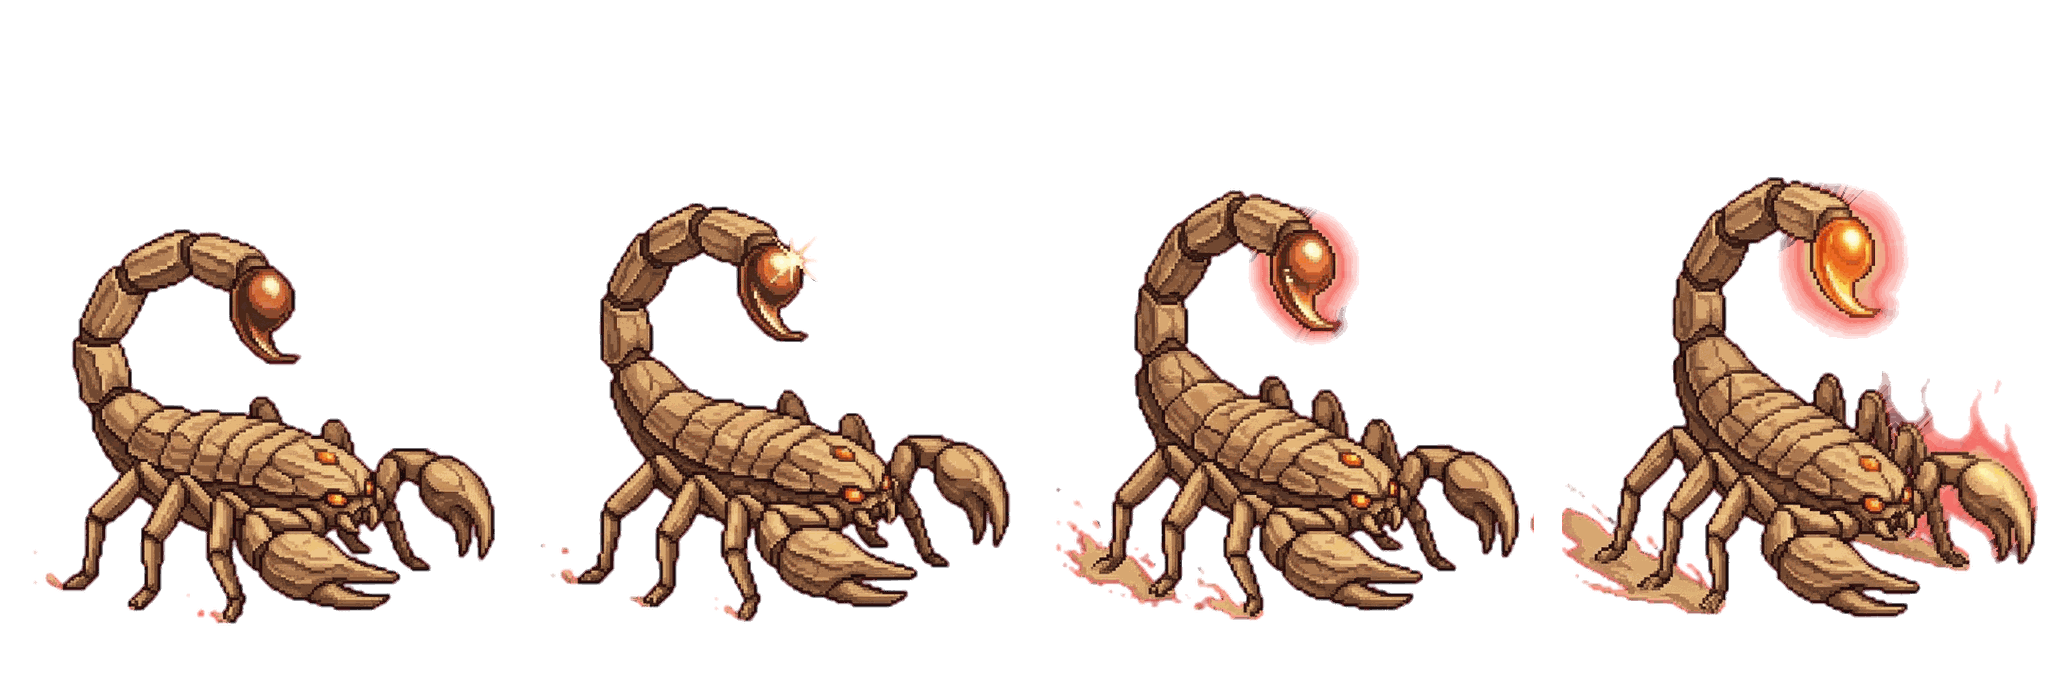
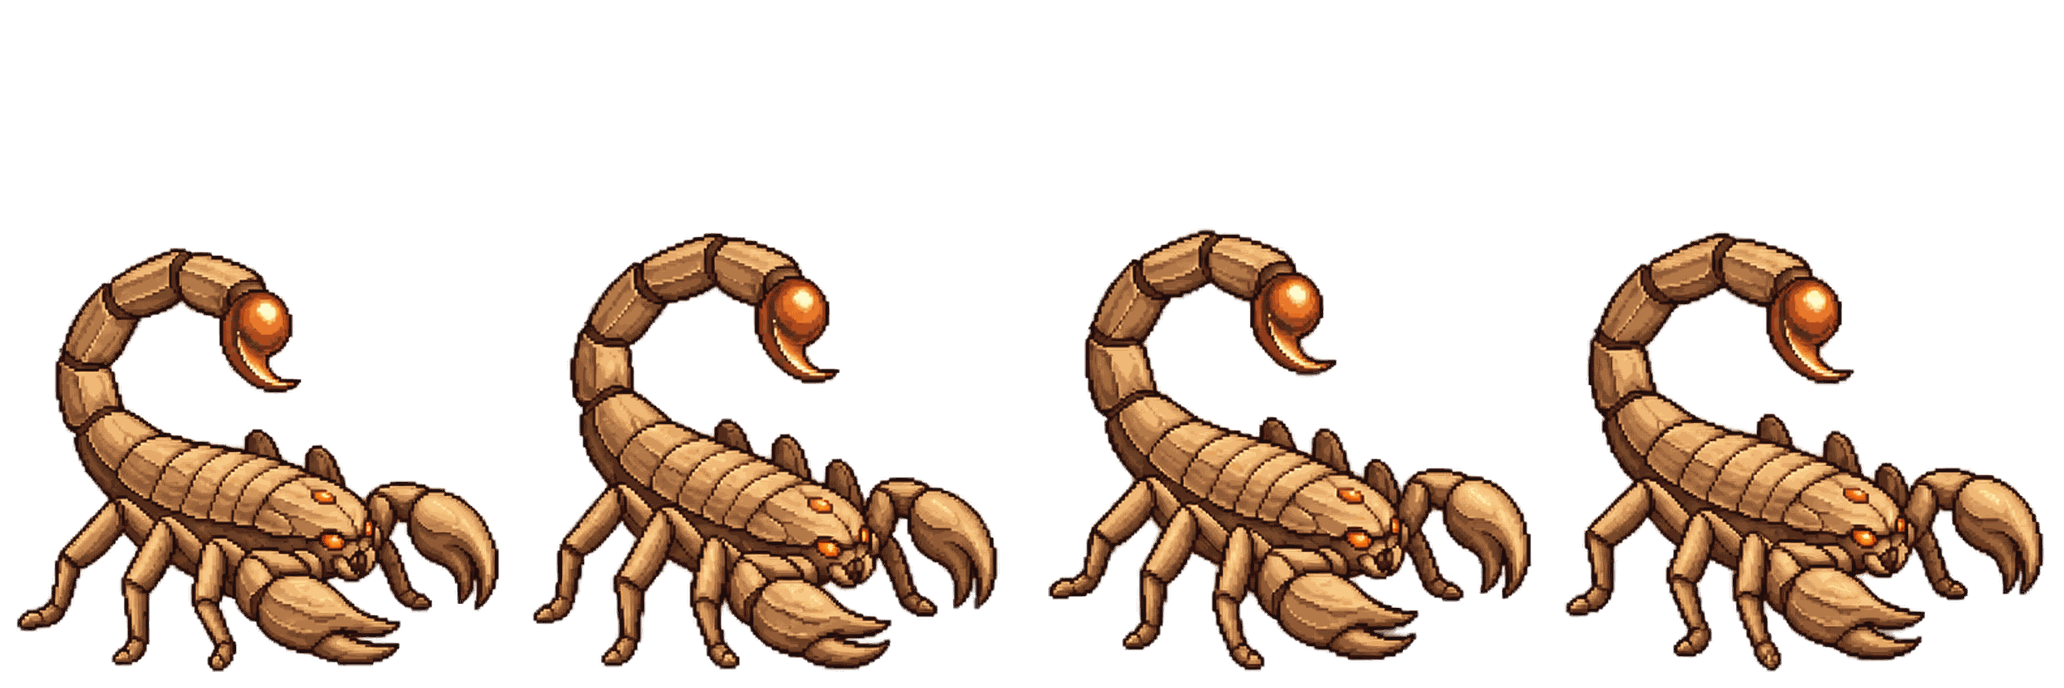
Round 271: the Dune Scorpion scuttles (#51)
Claude-Session: https://claude.ai/code/session_01XB2RMCaJ1aVVtBjSNk3FhS

diff --git a/assets/elaris-wildlife.js b/assets/elaris-wildlife.js
@@ -6,7 +6,7 @@ const ELARIS_WILDLIFE={
  // own sheets (see ELARIS-ART.md).
  cinderFox:{name:'Solar Scarab',icon:'☼',hp:38,attack:7,element:'fire',sheet:'solar-scarab',cycle:'.8s'}, // Round 269: the owner's eight-frame walk (four frames used)
  drownedHeron:{name:'Mirage Ibis',icon:'≈',hp:55,attack:9,element:'water',sheet:'mirage-ibis',cycle:'.8s'}, // Round 270: the owner's eight-frame walk (four frames used)
- blightAntler:{name:'Dune Scorpion',icon:'◆',hp:44,attack:8,element:'earth',sheet:'dune-scorpion',cycle:'1.2s'},
+ blightAntler:{name:'Dune Scorpion',icon:'◆',hp:44,attack:8,element:'earth',sheet:'dune-scorpion',cycle:'.8s'}, // Round 271: the owner's eight-frame walk (four frames used)
  stormMoth:{name:'Dust Devil',icon:'≋',hp:52,attack:9,element:'air',sheet:'dust-devil',cycle:'.7s'},
  // Round 22 mini-bosses (own sheets since Round 195).
  tidewardenElaris:{name:'The Cistern Warden',icon:'≈',hp:70,attack:11,armor:3,element:'water',sheet:'cistern-warden',cycle:'1.4s',boss:true,miniBoss:true},
@@ -42,7 +42,7 @@ const cityMonsterArt=monsterArt;
 // Round 196: a sheet name with a folder ('sky/zenith-roc') is read from assets/monsters/<folder>/;
 // big:true draws it in the larger boss box.
 // Round 200: bump SPRITE_VERSION when sheets are re-cut, so browsers fetch the new images.
-const SPRITE_VERSION='270';
+const SPRITE_VERSION='271';
 function wildlifeSheetUrl(sheet){return 'assets/monsters/'+(sheet.includes('/')?sheet:'elaris/'+sheet)+'.png?v='+SPRITE_VERSION}
 monsterArt=function(id){const animal=ELARIS_WILDLIFE[id]||WILDLIFE_ART[id];if(!animal)return cityMonsterArt(id);return '<span class="monster-sprite wildlife-sprite'+(animal.big?' bloom-tyrant':'')+'" role="img" aria-label="'+animal.name+'" style="background-image:url('+wildlifeSheetUrl(animal.sheet)+');--wildlife-cycle:'+animal.cycle+'"></span>'};
 // Round 249: a boss node's sprite box was square (142px, sized for Neon Aftermath's boss pictures), which

diff --git a/index.html b/index.html
@@ -551,7 +551,7 @@ if(localStorage.getItem(SAVE_KEY))$('resumeBtn').classList.remove('hidden');
 addEventListener('resize',()=>{fitWorld();fitMap();renderTalentConnectors()});fitWorld();
 requestAnimationFrame(loop);
 </script>
-<script src="assets/elaris-wildlife.js?v=round270"></script>
+<script src="assets/elaris-wildlife.js?v=round271"></script>
 <script src="assets/solaris-data.js?v=round232"></script>
 <script src="assets/expansion.js?v=round265"></script>
 <script src="assets/encounter-depth.js?v=round246"></script>

diff --git a/CHANGES.md b/CHANGES.md
@@ -3496,6 +3496,14 @@ Playtest of Neon Aftermath's three relics (Moon Lens 5,4; Ember Sigil 5,7; Briar
 - Talent descriptions list the per-rank values. Tests updated: round76, chronospire,
   talent-matrix, card-variety, plating-armor.
 
+## Round 271: the Dune Scorpion scuttles
+
+- The owner sent an eight-frame, right-facing scuttle for Solaris's Dune Scorpion (`blightAntler`). The source strip is
+  `assets/monsters/elaris/src/dune-scorpion-walk8.png`.
+- Frames 1, 3, 5 and 7 are composed into `assets/monsters/elaris/dune-scorpion.png` (replacing the old sheet), then
+  padded. The cycle is .8s, down from 1.2s, to match the owner's timing.
+- `SPRITE_VERSION` 271. New `tests/dune-scorpion.test.cjs`.
+
 ## Round 270: the Mirage Ibis walks
 
 - The owner sent an eight-frame, right-facing walk for Solaris's Mirage Ibis (`drownedHeron`). It steps with folded

diff --git a/CLAUDE.md b/CLAUDE.md
@@ -4,7 +4,7 @@ Aethercede is a browser card-battler/exploration game in vanilla JS with no
 build step. Open `index.html` directly. `compendium.html` is the card
 gallery; `arena.html` is a standalone prototype and is left untouched.
 
-**Read `CHANGES.md` first.** Every round of work (Round 1 to Round 270) is
+**Read `CHANGES.md` first.** Every round of work (Round 1 to Round 271) is
 logged there with its reasoning. Add a new `## Round N:` entry for each
 change set.
 
